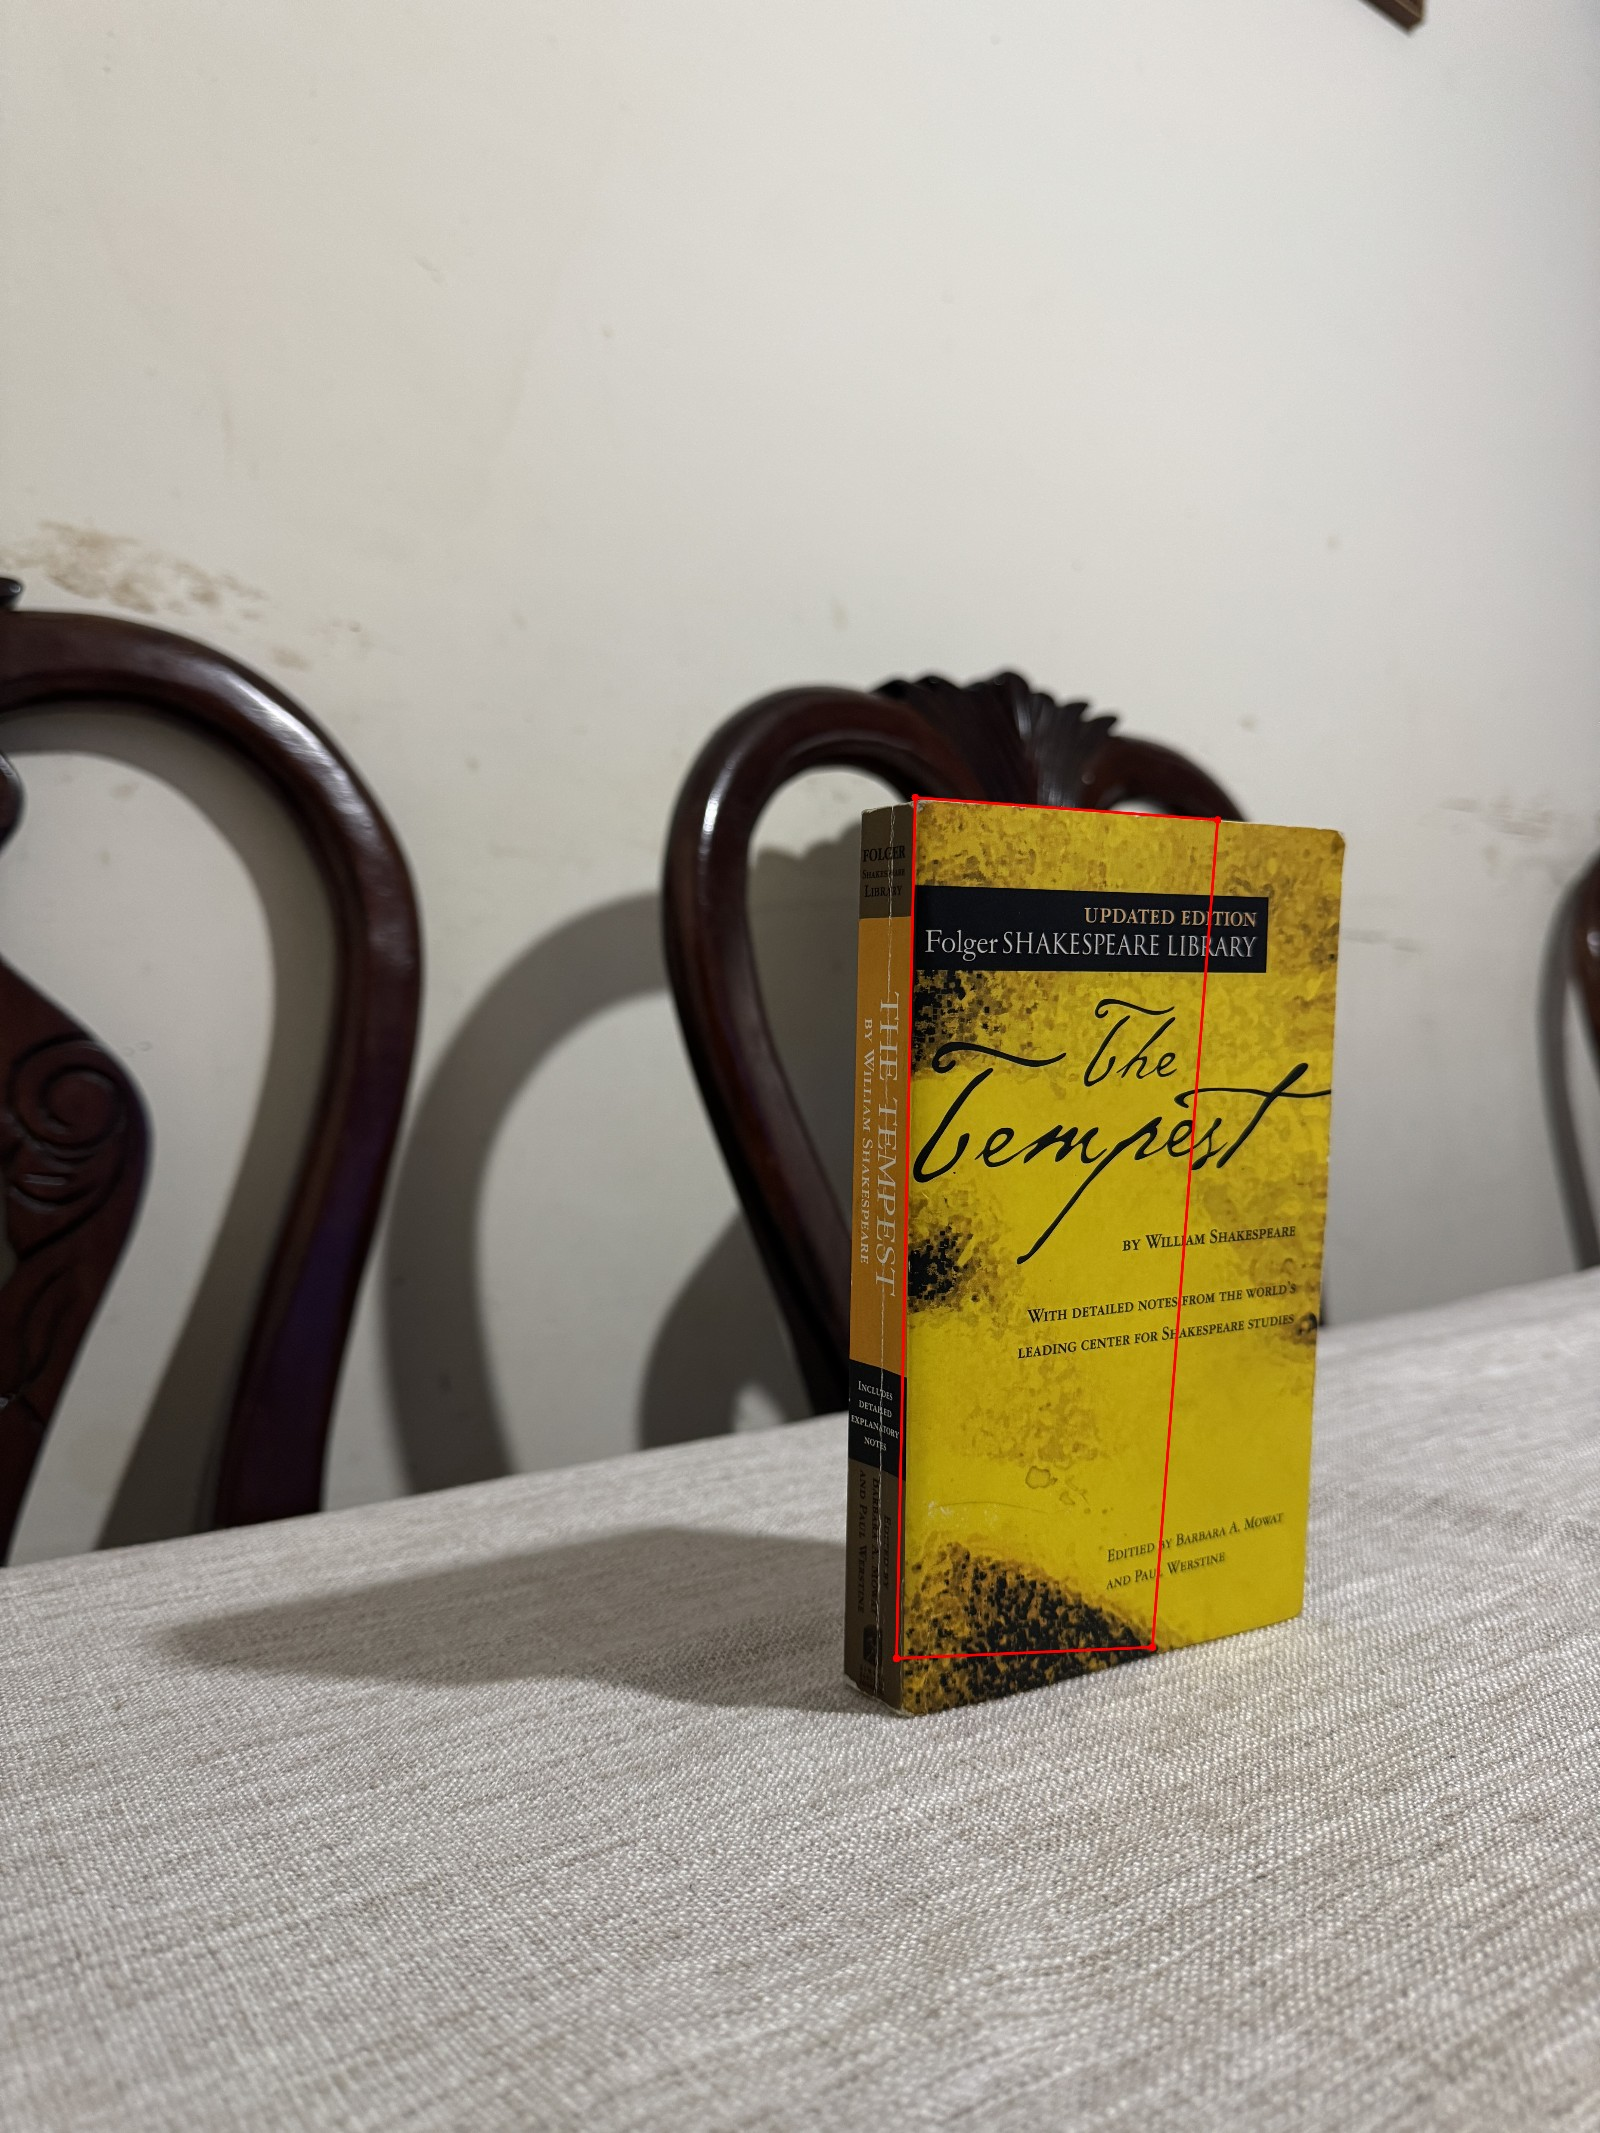
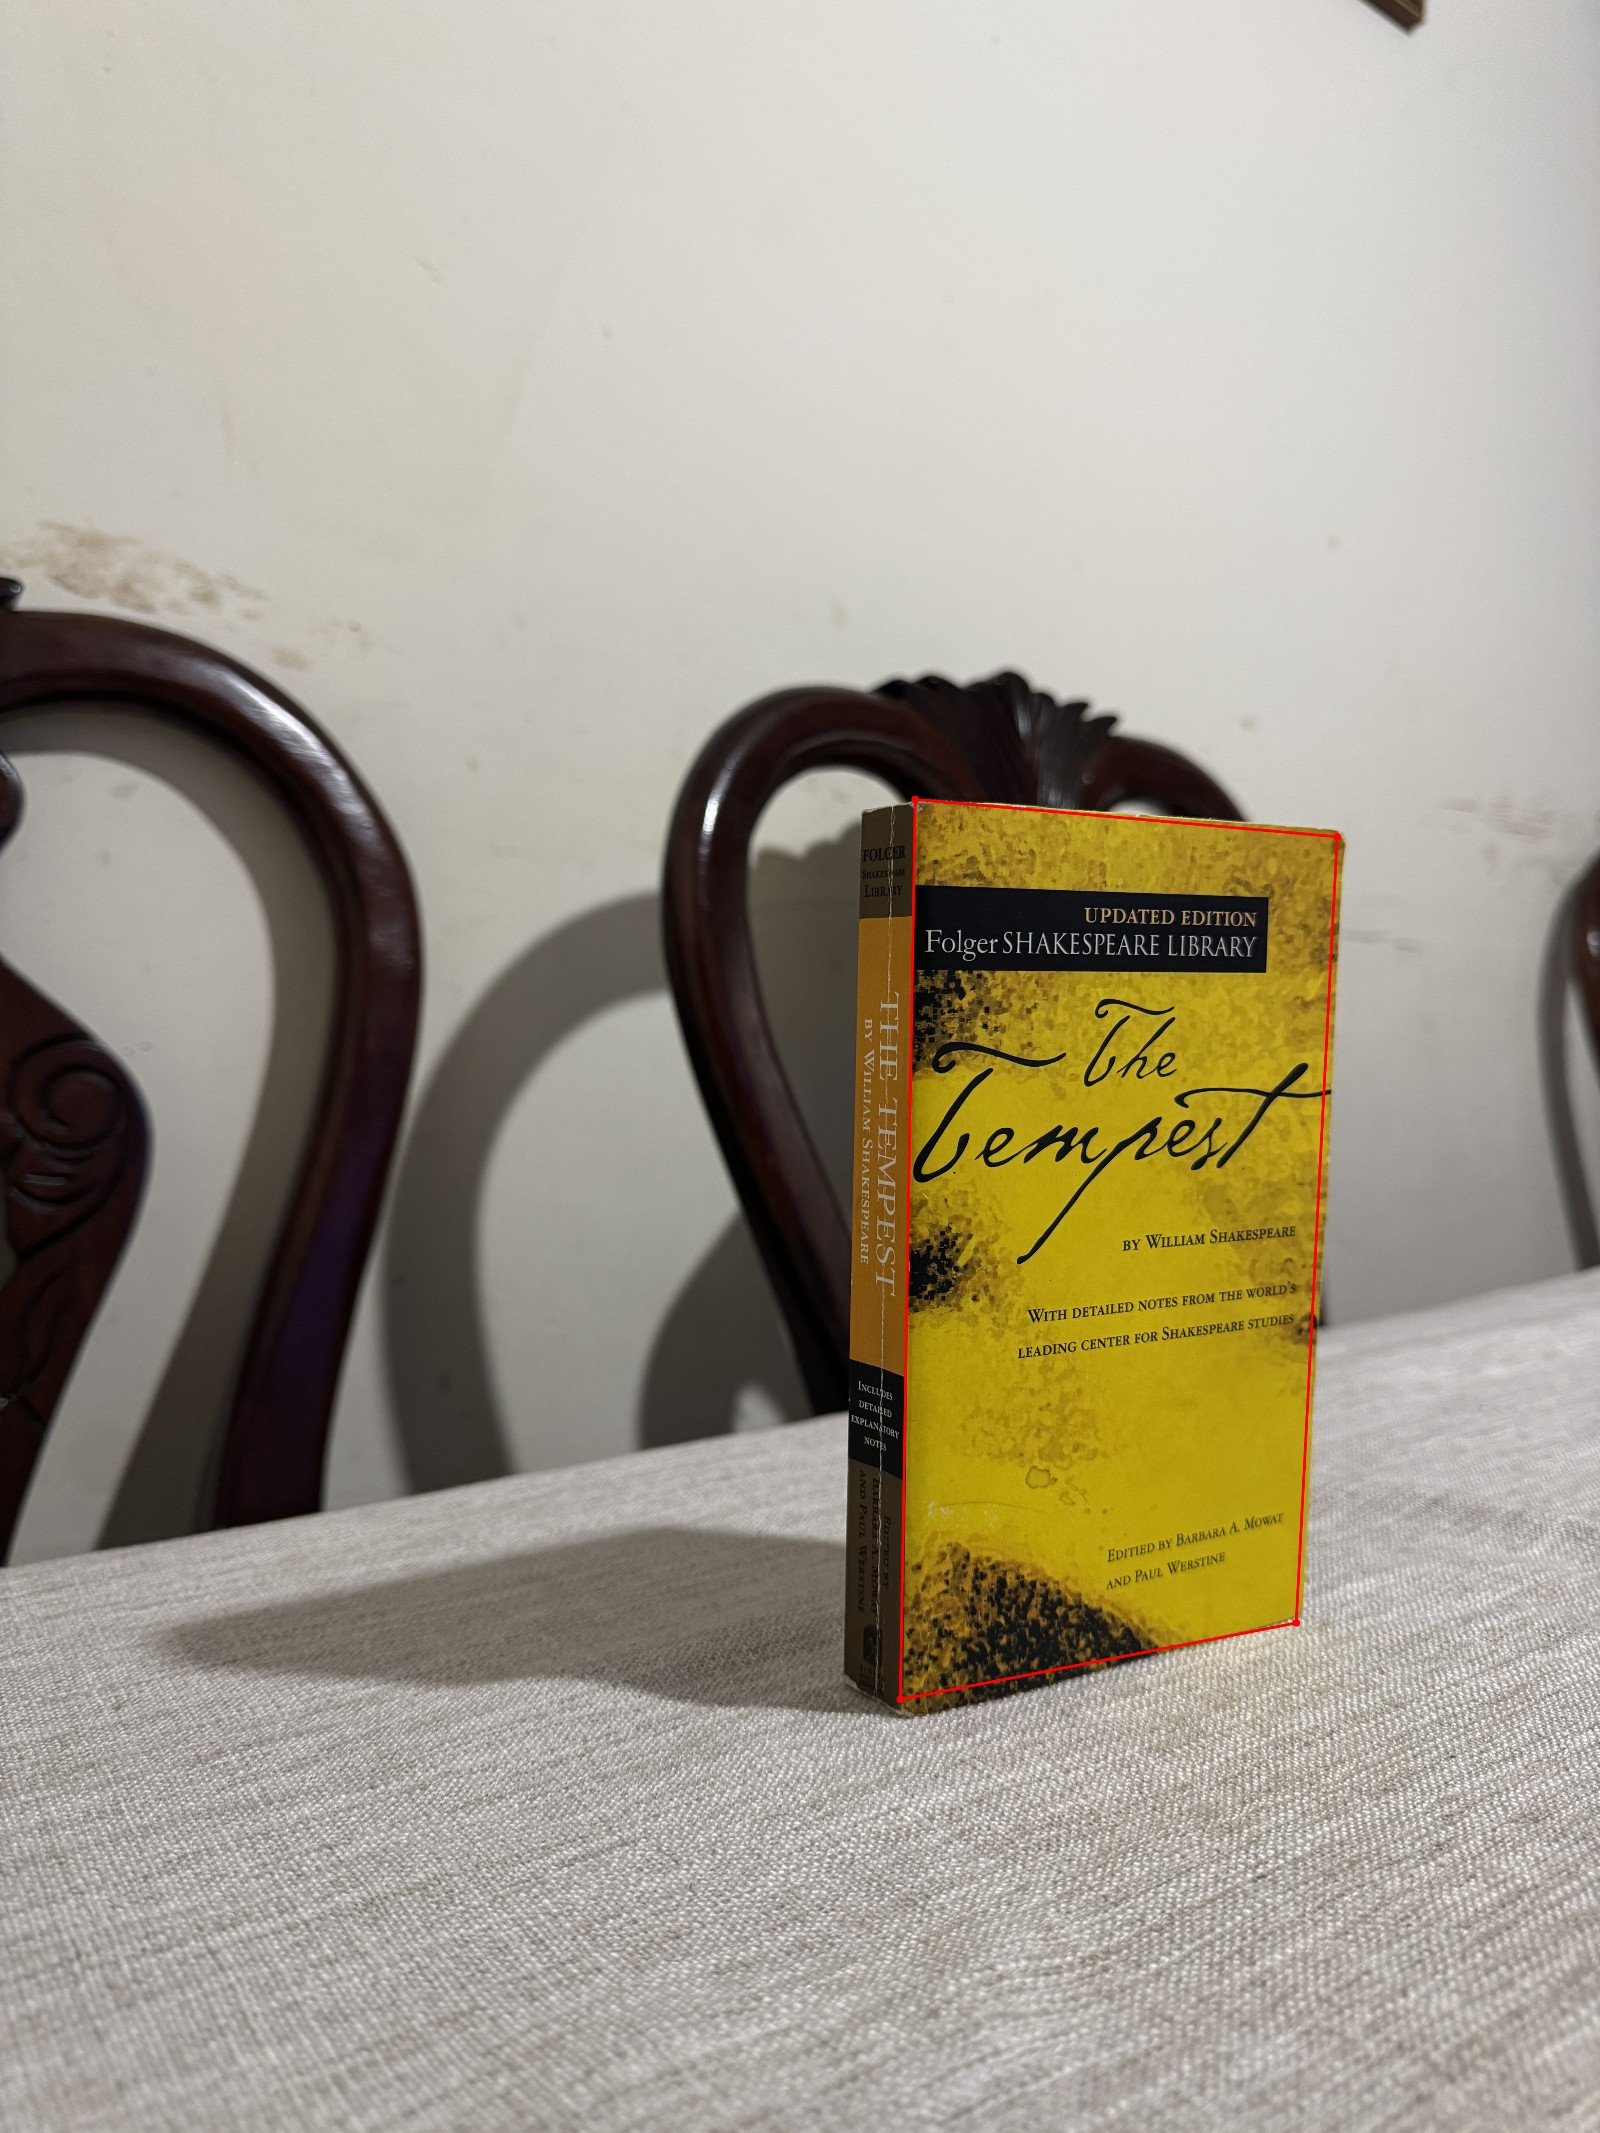
Fix View 2 boundary corners: top-right/bottom-right were misidentified
Pre-merge visual review found the View 2 top-right and bottom-right manual
boundary corners were substantially wrong (roughly 300-400px short of the
actual cover edge - the drawn boundary cut through the cover's printed
text instead of tracing its true right edge). Re-identified all four
View 2 corners from a clean full-image overview and verified against a
full-resolution crop before updating. Views 1, 3, and 4 were independently
re-verified the same way and were already correct.

Re-ran scripts/process_sfm_experiment.py with the corrected corners
(feature matching/homography/reprojection results are unaffected, since
those depend only on ORB correspondences, not manual boundary points) and
regenerated the affected artifacts and experiment_manifest.json entries.

diff --git a/scripts/process_sfm_experiment.py b/scripts/process_sfm_experiment.py
@@ -70,7 +70,7 @@ REFERENCE_VIEW_ID = "view_1"
 # top-left/top-right/bottom-right/bottom-left, on the EXIF-orientation-corrected image.
 BOUNDARY_CORNERS_PX: dict[str, list[tuple[float, float]]] = {
     "view_1": [(785.0, 1730.0), (3055.0, 1698.0), (2995.0, 5305.0), (865.0, 5165.0)],
-    "view_2": [(2450.0, 2135.0), (3260.0, 2195.0), (3085.0, 4410.0), (2400.0, 4440.0)],
+    "view_2": [(2450.0, 2140.0), (3580.0, 2240.0), (3470.0, 4345.0), (2410.0, 4550.0)],
     "view_3": [(1480.0, 1885.0), (2115.0, 1785.0), (2225.0, 4225.0), (1495.0, 3760.0)],
     "view_4": [(1440.0, 2280.0), (2870.0, 2400.0), (2665.0, 3760.0), (1600.0, 3560.0)],
 }

diff --git a/docs/SFM_CALCULATIONS.md b/docs/SFM_CALCULATIONS.md
@@ -189,7 +189,7 @@ not claim):
 | View | Top-left | Top-right | Bottom-right | Bottom-left |
 | ---- | -------- | --------- | ------------ | ----------- |
 | View 1 (reference) | (785, 1730) | (3055, 1698) | (2995, 5305) | (865, 5165) |
-| View 2 | (2450, 2135) | (3260, 2195) | (3085, 4410) | (2400, 4440) |
+| View 2 | (2450, 2140) | (3580, 2240) | (3470, 4345) | (2410, 4550) |
 | View 3 | (1480, 1885) | (2115, 1785) | (2225, 4225) | (1495, 3760) |
 | View 4 | (1440, 2280) | (2870, 2400) | (2665, 3760) | (1600, 3560) |
 
